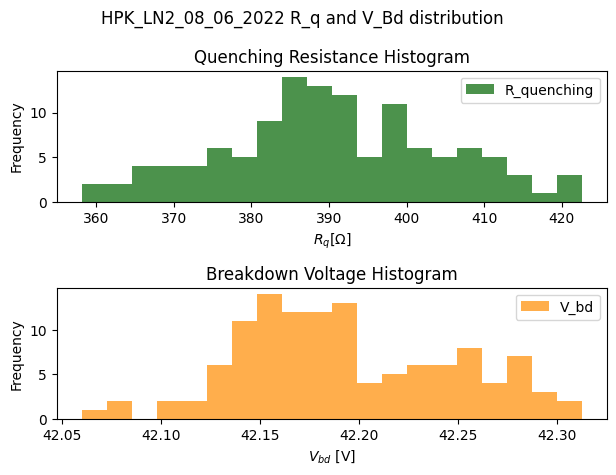
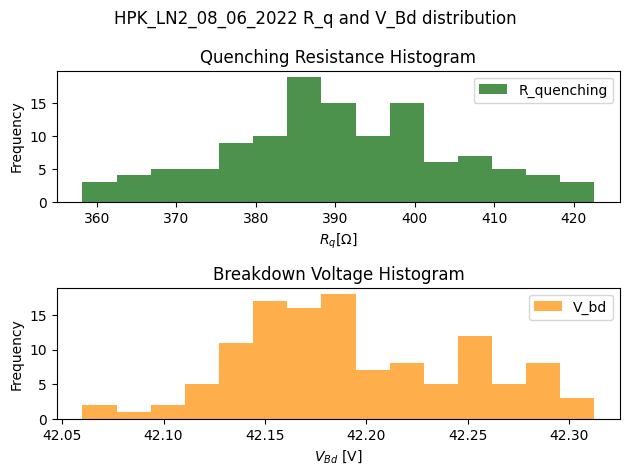
Added histogram comparison

diff --git a/SiPM/SiPM_class.py b/SiPM/SiPM_class.py
@@ -17,7 +17,6 @@ from scipy import stats, signal, optimize
 
 
 class Single:
-    # Constructor definition
     def __init__(self, path):
         self.path = path
         self._fileinfo = {}
@@ -83,7 +82,7 @@ class Single:
             results = self.df_grouped.apply(fwd_analyzer, start)
             joined_df = self.df_sorted.join(results, on="SiPM")
 
-            # saving R_quenching to .csv for each SiPM
+
             out_df = joined_df[
                 ["SiPM", "R_quenching", "R_quenching_std"]
             ].drop_duplicates(subset="SiPM")
@@ -92,7 +91,6 @@ class Single:
             if hide_progress is False:
                 print(f"Results saved as {savepath}\{res_fname}")
 
-            # Plotting
             if hide_progress is False:
                 print("Plotting...")
             pdf_name = f"Arduino{self._fileinfo['ardu']}_Test{self._fileinfo['test']}_Temp{self._fileinfo['temp']}_Forward.pdf"
@@ -107,7 +105,7 @@ class Single:
             results = self.df_grouped.apply(rev_analyzer, width)
             joined_df = self.df_sorted.join(results, on="SiPM")
 
-            # saving V_bd to .csv for each SiPM
+
             out_df = joined_df[["SiPM", "V_bd", "V_bd_std"]].drop_duplicates(
                 subset="SiPM"
             )
@@ -116,19 +114,16 @@ class Single:
             if hide_progress is False:
                 print(f"Results saved as {savepath}\{res_fname}")
 
-            # Plotting
+
             if hide_progress is False:
                 print("Plotting...")
-
             pdf_name = f"Arduino{self._fileinfo['ardu']}_Test{self._fileinfo['test']}_Temp{self._fileinfo['temp']}_Reverse.pdf"
             pdf_rev = PdfPages(os.path.join(savepath, pdf_name))
-
             joined_df.groupby("SiPM").apply(rev_plotter, pdf_rev)
-
             if hide_progress is False:
                 print(f"Plot saved as {savepath}\{pdf_name}.")
             pdf_rev.close()
-            pass
+
 
 
 ###############################################################################
@@ -137,13 +132,13 @@ class Single:
 
 
 class DirReader:
-    # Constructor definition
+
     def __init__(self, dir):
         self.dir = dir
         self.path = dir
         self.__file_list = []
 
-    # File finder method
+
     def dir_walker(self):
         top = self.path
         name_to_match = "*ARDU_*_dataframe.csv"
@@ -157,9 +152,15 @@ class DirReader:
         self.__file_list = file_list
         return self.__file_list
 
-    def dir_analyzer(self):
+
+    def dir_analyzer(self , root_savepath = os.getcwd()):
         for idx, file in enumerate(self.__file_list):
-            subfolder = re.search(".+\\\\(.+?)\\\\ARDU_.+", file).group(1)
+            
+            try:
+                subfolder = re.search(".+\\\\(.+?)\\\\ARDU_.+", file).group(1)
+            except AttributeError:
+                subfolder = ""
+            print(subfolder)
 
             sipm = Single(file)
             sipm.reader()
@@ -168,52 +169,38 @@ class DirReader:
             )  # Introduced to solve memory issues when dealing with big folders
 
             sipm.analyzer(
-                savepath=os.path.join(os.getcwd(), "results", subfolder),
+                savepath=os.path.join(root_savepath, "results", subfolder), # Creates a "results" subdir in the "root_savepath" directory
                 hide_progress=True,
             )  # hide_progress set to True to have a cleaner look on the terminal
             progress_bar(idx + 1, len(self.__file_list))
         print("\n")
 
-    def histograms(self):
+    def histograms(self, compare_temp=True, compare_day=True):
         top = os.path.join(os.getcwd(), "results")
+        fwd_all = []
+        rev_all = []
 
         for subdir, dirs, files in os.walk(top):
             for dir in dirs:
                 subdir_path = os.path.join(subdir, dir)
 
-                # Load all forward csv files into a list of dataframes and concat them
-                fwd_files = [
-                    file
-                    for file in os.listdir(subdir_path)
-                    if "Forward" in file and file.endswith(".csv")
-                ]
-                fwd_dfs = [
-                    pd.read_csv(os.path.join(subdir_path, file)) for file in fwd_files
-                ]
-                forward_data = pd.concat(fwd_dfs)
+                # Retrieve all the data of fwd and rev
+                forward_data = df_join(subdir_path, "Forward")
+                reverse_data = df_join(subdir_path, "Reverse")
 
-                # Load all reverse csv files into a list of dataframes and concat them
-                rev_files = [
-                    file
-                    for file in os.listdir(subdir_path)
-                    if "Reverse" in file and file.endswith(".csv")
-                ]
-                rev_dfs = [
-                    pd.read_csv(os.path.join(subdir_path, file)) for file in rev_files
-                ]
-                reverse_data = pd.concat(rev_dfs)
+                if (
+                    compare_day == True or compare_temp == True
+                ):  # Create the full df only if needed
+                    fwd_all.append(forward_data)
+                    rev_all.append(reverse_data)
 
                 # Plot R_q and V_bd hist for each subfolder
                 fig, axs = plt.subplots(2)
-                fig.suptitle(f"{dir} R_q and V_Bd distribution")
-                [ax.grid("on") for ax in axs]
-                axs[0].set_title("Quenching Resistance Histogram")
-                axs[0].set_xlabel("$R_q [\Omega$]")
-                axs[0].set_ylabel("Frequency")
+                hist_params(fig, axs, dir)
                 forward_data.plot.hist(
                     column=["R_quenching"],
                     ax=axs[0],
-                    bins=20,
+                    bins=15,
                     range=(
                         min(forward_data["R_quenching"]),
                         max(forward_data["R_quenching"]),
@@ -221,25 +208,58 @@ class DirReader:
                     color="darkgreen",
                     alpha=0.7,
                 )
-
-                axs[1].set_title("Breakdown Voltage Histogram")
-                axs[1].set_xlabel("$V_{bd}$ [V]")
-                axs[1].set_ylabel("Frequency")
                 reverse_data.plot.hist(
                     column=["V_bd"],
                     ax=axs[1],
-                    bins=20,
+                    bins=15,
                     range=(min(reverse_data["V_bd"]), max(reverse_data["V_bd"])),
                     color="darkorange",
                     alpha=0.7,
                 )
-
                 plt.tight_layout()  # Prevents titles and axes from overlapping
-                
-                # Saving the plots
                 plotname = f"Histograms_{dir}.png"
                 plt.savefig(os.path.join(top, plotname), bbox_inches="tight")
+                plt.close()
                 print(f"Plot saved as {top}\{plotname}")
+
+        if compare_temp == True or compare_day == True:
+            # Merge all the fwd and rev dataframes
+            fwd_all = pd.concat(fwd_all)
+            rev_all = pd.concat(rev_all)
+
+        if compare_temp == True:
+            ln2_fwd = fwd_all[fwd_all["subdir"].str.contains("LN2")]
+            ln2_rev = rev_all[fwd_all["subdir"].str.contains("LN2")]
+
+            fig, axs = plt.subplots(2)
+            hist_params(fig, axs, "Liquid Nitrogen comparison")
+            for subdir, group in ln2_fwd.groupby("subdir"):
+                group["R_quenching"].hist(ax=axs[0], label=subdir, bins=15, alpha=0.6)
+            for subdir, group in ln2_rev.groupby("subdir"):
+                group["V_bd"].hist(ax=axs[1], label=subdir, bins=15, alpha=0.6)
+            [ax.legend() for ax in axs]
+            plt.tight_layout()
+            plotname = f"LN2_comparison_hist.png"
+            plt.savefig(os.path.join(top, plotname), bbox_inches="tight")
+            plt.close()
+            print(f"Plot saved as {top}\{plotname}")
+
+        if compare_day == True:
+            fwd_april = fwd_all[fwd_all["subdir"].str.contains("_04_")]
+            rev_april = rev_all[fwd_all["subdir"].str.contains("_04_")]
+
+            fig, axs = plt.subplots(2)
+            hist_params(fig, axs, "April data comparison")
+            for subdir, group in fwd_april.groupby("subdir"):
+                group["R_quenching"].hist(ax=axs[0], label=subdir, bins=15, alpha=0.6)
+            for subdir, group in rev_april.groupby("subdir"):
+                group["V_bd"].hist(ax=axs[1], label=subdir, bins=15, alpha=0.6)
+            [ax.legend() for ax in axs]
+            plt.tight_layout()
+            plotname = f"April_data_comparison_hist.png"
+            plt.savefig(os.path.join(top, plotname), bbox_inches="tight")
+            plt.close()
+            print(f"Plot saved as {top}\{plotname}")
 
 
 ######################################################################
@@ -407,7 +427,7 @@ def rev_plotter(data, pdf):
 
     ax2.set_ylabel(r"$I^{-1} \frac{dI}{dV}$", color="darkgreen")
     ax2.scatter(x, derivative, marker="o", s=5, color="darkgreen", label="Derivative")
-    ax2.plot(x, y_poly, color="darkturquoise", label="5th-degree derivative poly fit")
+    ax2.plot(x, y_poly, color="darkturquoise", label="5th-deg polynomial")
     ax2.plot(x_gauss, y_gauss, color="darkorange", label="Gaussian around peak")
     ax2.axvline(
         V_bd,
@@ -427,6 +447,19 @@ def norm_derivative(x, y):
 
 
 @staticmethod
+def df_join(directory, direction):
+    files = [
+        file
+        for file in os.listdir(directory)
+        if direction in file and file.endswith(".csv")
+    ]
+    dfs = [pd.read_csv(os.path.join(directory, file)) for file in files]
+    data = pd.concat(dfs)
+    data["subdir"] = os.path.basename(directory)
+    return data
+
+
+@staticmethod
 def progress_bar(progress, total):
     """Provides a visual progress bar on the terminal"""
 
@@ -439,3 +472,15 @@ def progress_bar(progress, total):
 def gauss(x, H, A, mu, sigma):
     # Returns a gaussian curve with displacement H, amplitude A, mean mu and std sigma.
     return H + A * np.exp(-((x - mu) ** 2) / (2 * sigma**2))
+
+
+# Title and axis labels for the histograms
+def hist_params(fig, axs, dir):
+    fig.suptitle(f"{dir}: R_q and V_Bd distribution")
+    [ax.grid("on") for ax in axs]
+    axs[0].set_title("Quenching Resistance Histogram")
+    axs[0].set_xlabel("$R_q [\Omega$]")
+    axs[0].set_ylabel("Frequency")
+    axs[1].set_title("Breakdown Voltage Histogram")
+    axs[1].set_xlabel("$V_{Bd}$ [V]")
+    axs[1].set_ylabel("Frequency")

diff --git a/Claro/claro_class.py b/Claro/claro_class.py
@@ -59,8 +59,8 @@ class Single:
         return values
 
     # erf fit method
-    def fit_erf(self, fit_guess: dict = None):
-        function = modified_erf
+    def fit_erf(self, fit_guess = None):
+        modified_erf
         x = self.x
         y = self.y
         if fit_guess is None:
@@ -69,10 +69,10 @@ class Single:
             warnings.filterwarnings(
                 "ignore", message="Covariance of the parameters could not be estimated"
             )
-            params, covar = optimize.curve_fit(function, x, y, fit_guess, maxfev=10000)
+            params, covar = optimize.curve_fit(modified_erf, x, y, fit_guess, maxfev=10000)
 
             erf_fit_x = np.linspace(self.x.min(), self.x.max(), 100)
-            erf_fit_y = function(erf_fit_x, *params)
+            erf_fit_y = modified_erf(erf_fit_x, *params)
             self.erf_x = erf_fit_x
             self.erf_y = erf_fit_y
             std = np.sqrt(np.diag(covar))
@@ -272,11 +272,13 @@ class Claro:
                 all_data = info | data["meta"]
 
                 # evaluate erf t. point
-                def fit_erf(self):
+                def fit_erf(self ,fit_guess = None):
                     function = modified_erf
                     x = data["x"]
                     y = data["y"]
 
+                    if fit_guess is None:
+                        fit_guess = data["fit_guess"]
                     with warnings.catch_warnings():
                         warnings.filterwarnings(
                             "ignore",
@@ -287,7 +289,7 @@ class Claro:
                         )
 
                         params, covar = optimize.curve_fit(
-                            function, x, y, data["fit_guess"], maxfev=1000
+                            function, x, y, fit_guess, maxfev=2000
                         )
                         erf_fit_x = np.linspace(x.min(), x.max(), 100)
                         erf_fit_y = function(erf_fit_x, *params)

diff --git a/SiPM/SiPM_main.py b/SiPM/SiPM_main.py
@@ -20,12 +20,12 @@ if os.path.isdir(path):
     print("Provided a directory path, analyzing...")
     directory = sipm.DirReader(path)
     directory.dir_walker()
-    #directory.dir_analyzer() # Default saving directory: (savepath=os.path.join(os.getcwd(), "results", subfolder) ,hide_progress=True)
-    directory.histograms()
+    directory.dir_analyzer() # Default arguments: (root_savepath = os.getcwd() ,hide_progress=True)
+    directory.histograms()  # Default arguments (compare_temp=True , compare_day=True)
     
 
 else:
     print("Provided a file path, analyzing...")
     single = sipm.Single(path)
     single.reader()
-    single.analyzer()  # Default arguments: (f_starting_point = 1.6, peak_width=20 , savepath = os.getcwd(), hide_progress = False)
+    single.analyzer()  # Default arguments: (room_f_start=0.75, ln2_f_start=1.55, peak_width=10, savepath=os.getcwd(), hide_progress=False)

diff --git a/Claro/claro_main.py b/Claro/claro_main.py
@@ -34,7 +34,7 @@ if isSingle(path):
     print(f"Provided a single Claro file, analyzing...\n")
     single = cl.Single(path)
     single.fit_lin()
-    single.fit_erf()  # default arguments: (fit_guess:dict=None)
+    single.fit_erf()  # default arguments: (fit_guess=None)
     single.printData()
     single.plotter()  # default arguments: (scatter = True, show_lin = True, show_erf = True, saveplot = False)
     sys.exit(0)  # the program ends here if given a single file
